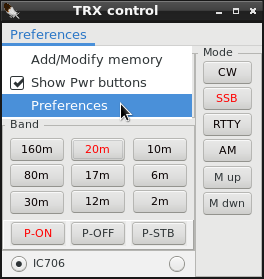
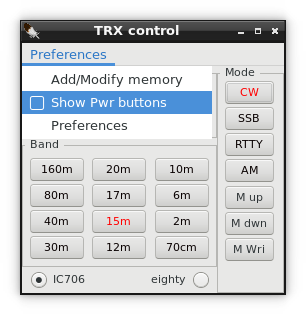
TRXControl: M Wri button. Help update

diff --git a/help/h30.html b/help/h30.html
@@ -36,9 +36,12 @@
  <img src="img/h118.png" name="8"  width="353" height="367">
 </img>
 <br/>
-TRX Control window Shows current frequency. 
-</br>Allows Change of Band, mode, memory and rig.
-</br>With P-on/off/stb buttons current rig can be set ON, OFF or STANDBY (if it supports rigctld power commands).
+TRX Control window Shows current frequency and buttons allow change of Band, mode, memory and rig.
+</br><b>M_up</b> and <b>M_dwn</b> buttons select next/previous entry from memory list. <b>Buttons are current mode related</b>. 
+</br>Example: If your Mode is SSB, only memories with mode USB or LSB will take effect from M-up/M_dwn buttons.
+</br><b>M_Wri</b> adds entry to memory list from current rig frequency and mode.
+</br>
+</br>With <b>P-on/off/stb</b> buttons current rig can be set ON, OFF or STANDBY (if it supports rigctld power commands).
 </br>Default setting for power buttons is hidden. You can change it via dropdown menu "Preferences".
 
 </p><p>See also <a href="h1.html#ah7">setting up TRXControl</a>
